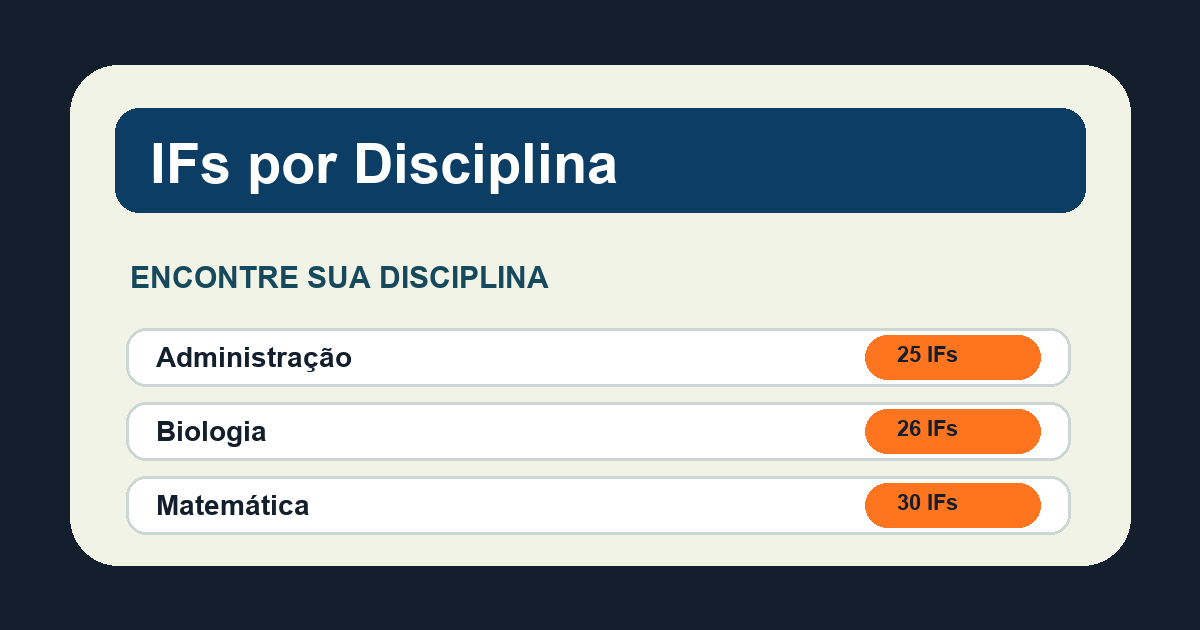
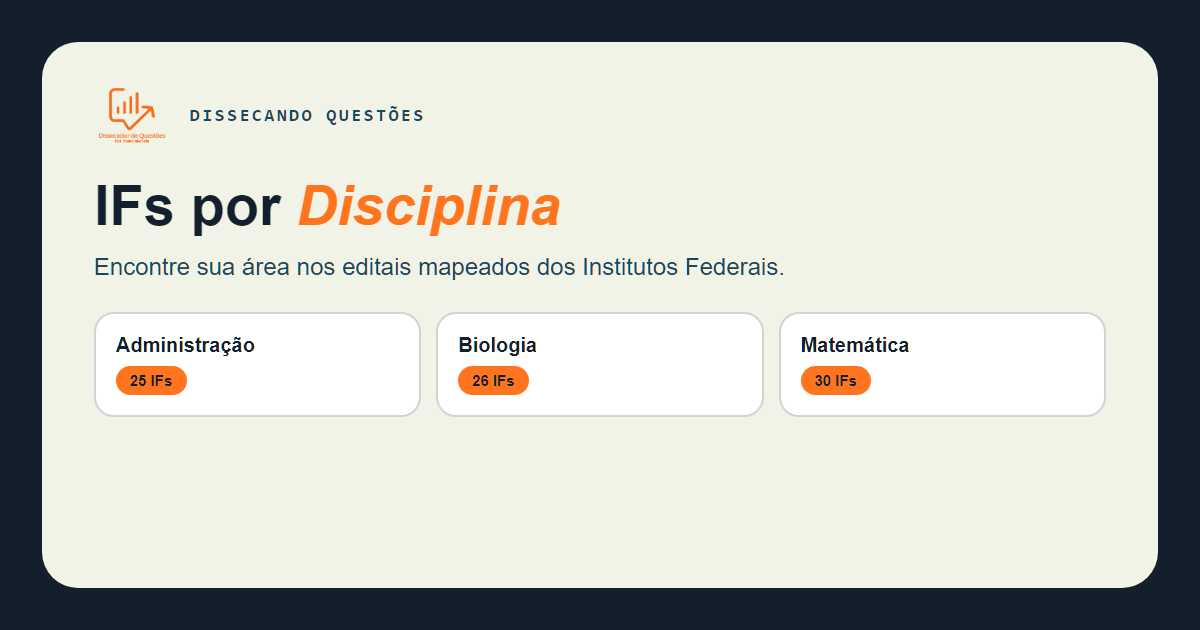
style: finish DQ branding on gift page

diff --git a/brinde/ifs-por-disciplina/index.html b/brinde/ifs-por-disciplina/index.html
@@ -149,6 +149,7 @@
   }
 
   .gift-intro { max-width:760px; margin:0 auto; padding:52px 20px 64px; }
+  .gift-logo { display:block; width:72px; height:auto; margin-bottom:24px; }
   .gift-intro h1 { font-family:'Unbounded',sans-serif; font-size:clamp(28px,5vw,44px); line-height:1.16; color:#131f2c; }
   .gift-intro p { color:#16495c; max-width:60ch; }
   .gift-intro form { display:grid; gap:16px; max-width:490px; margin-top:28px; padding:26px; border-radius:24px; background:#fff; border:1px solid #cbd6d5; }
@@ -172,6 +173,7 @@
 <!-- ═══════════════ ÁREA VISUAL (hero, copy, bullets, imagens) ═══════════════
      Tudo aqui é seu. EDITE À VONTADE. -->
 <main class="gift-intro">
+  <img class="gift-logo" src="../../assets/img/padrao/logo-dq.png" alt="Dissecando Questões">
   <h1>IFs por Disciplina</h1><!-- PREENCHER -->
   <p>Veja em quais Institutos Federais a sua disciplina aparece nos editais mapeados.</p><!-- PREENCHER -->
 
